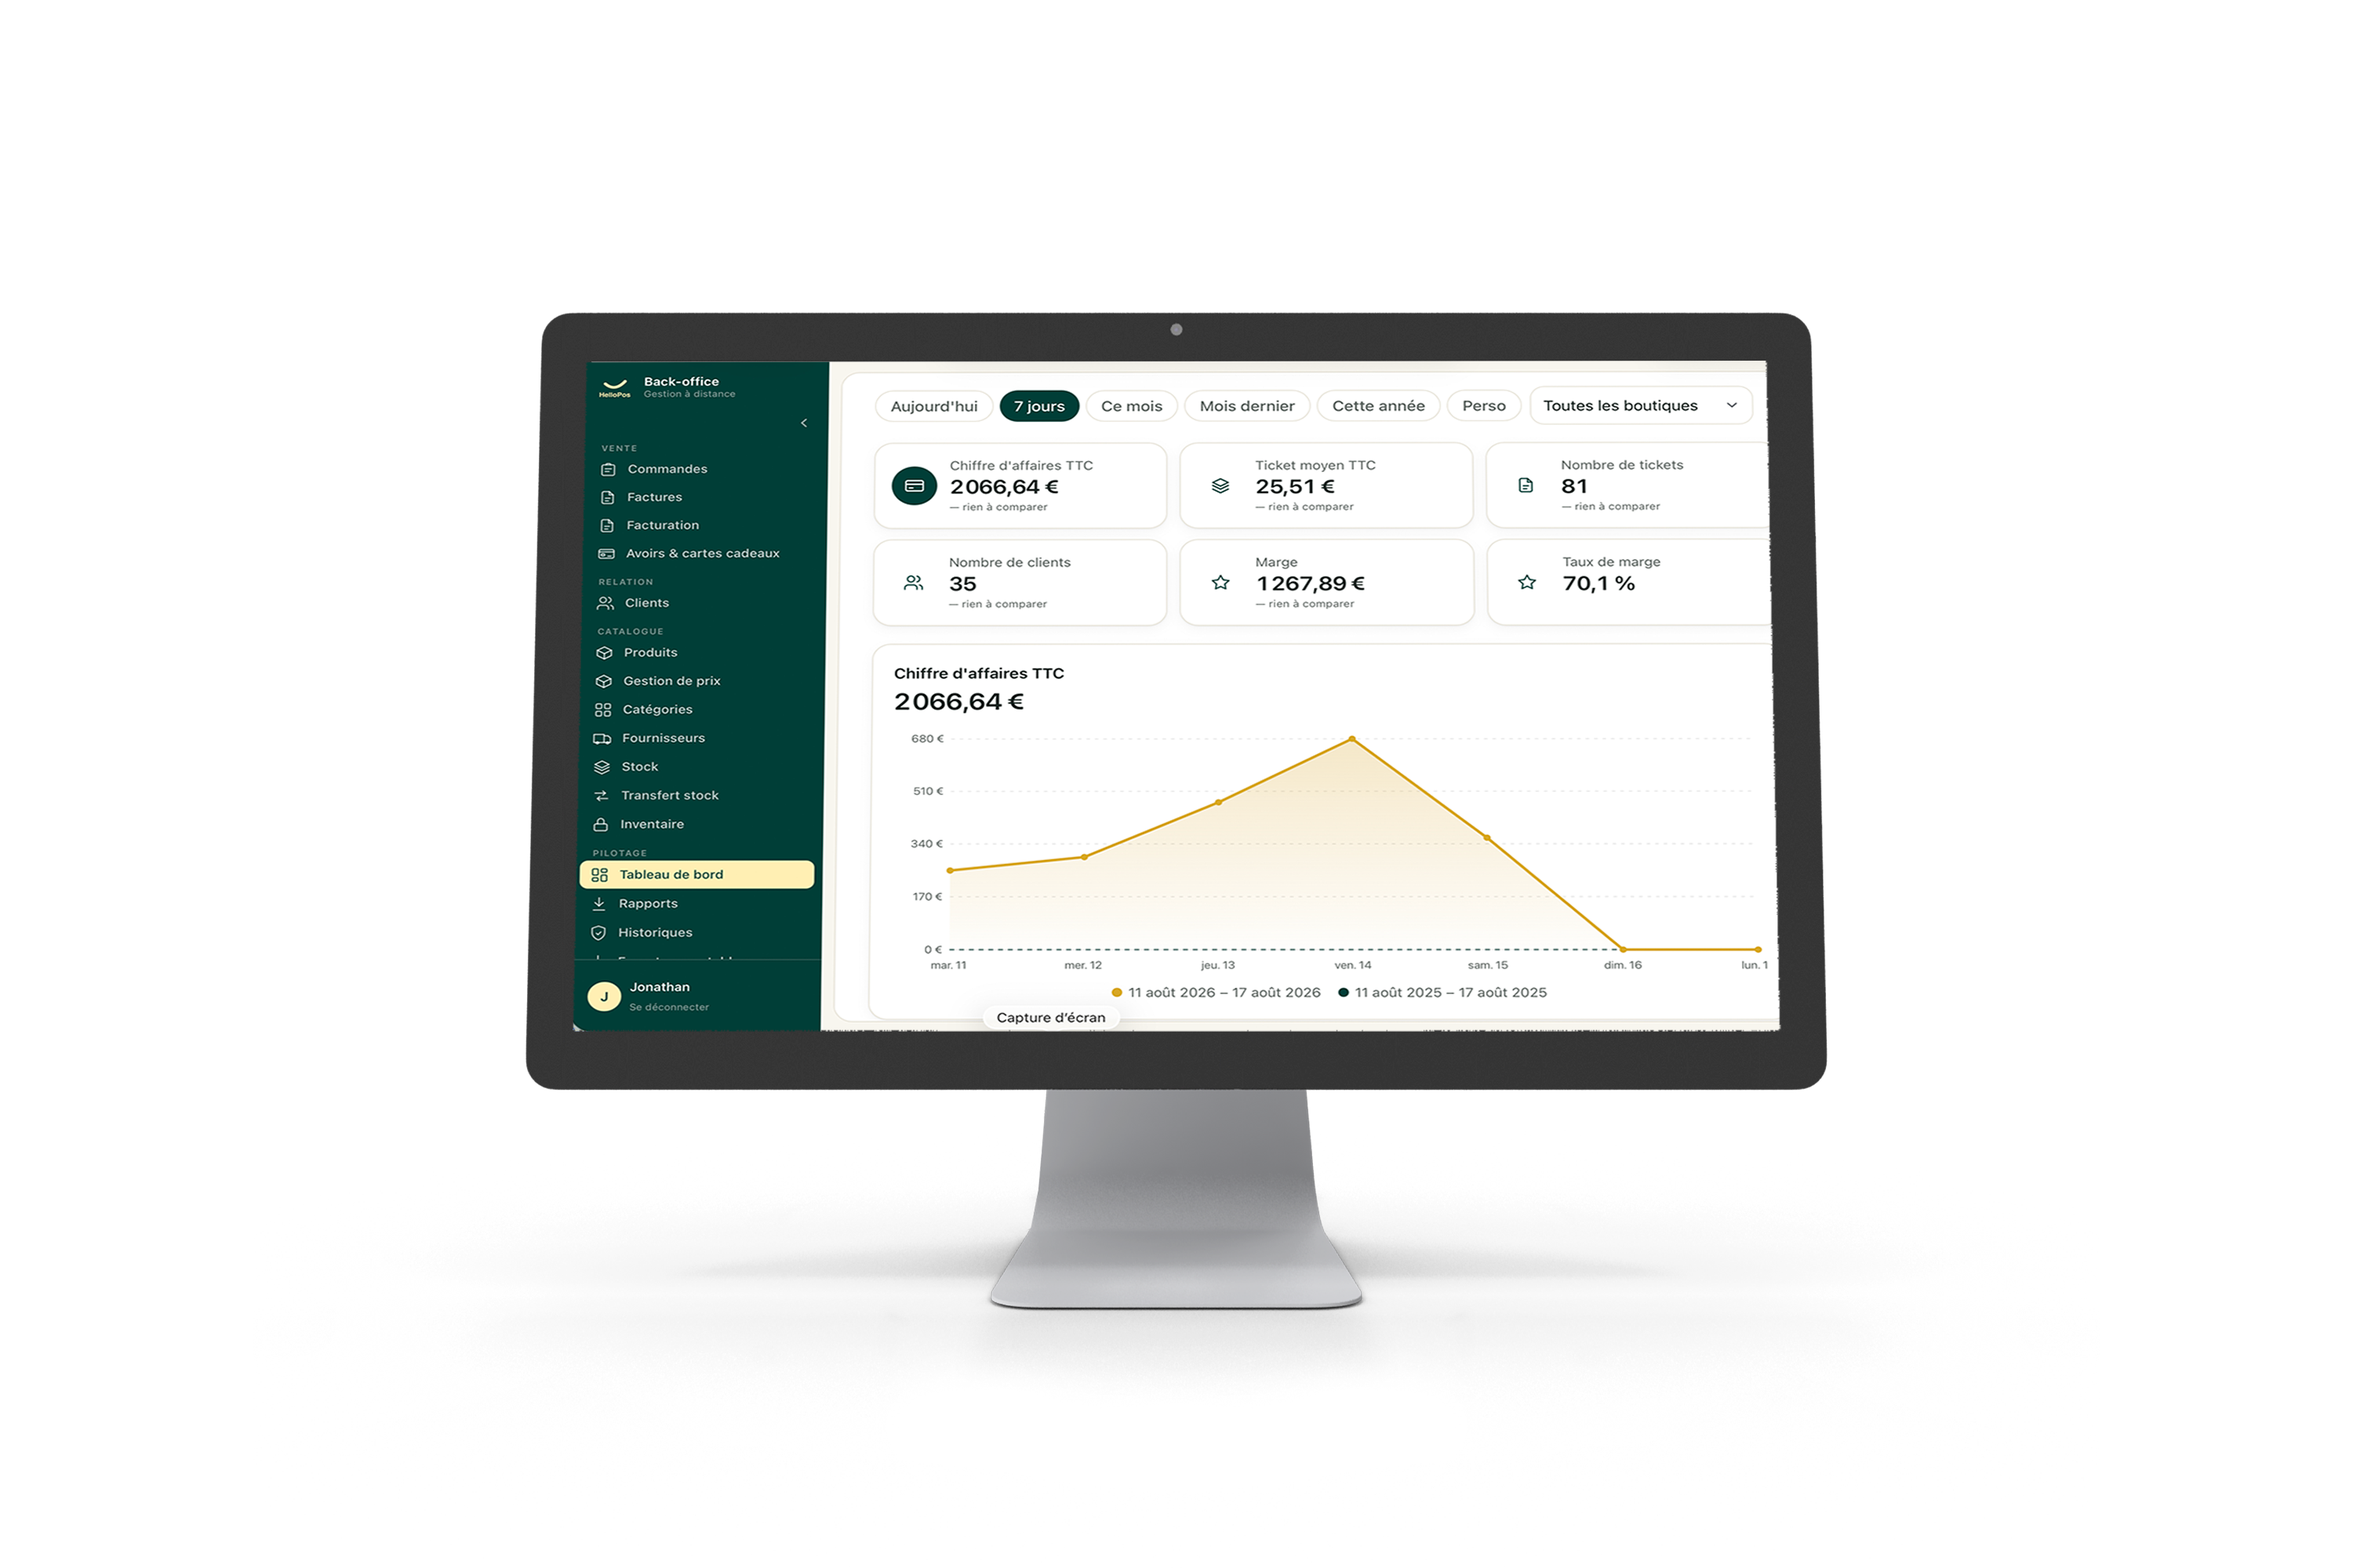
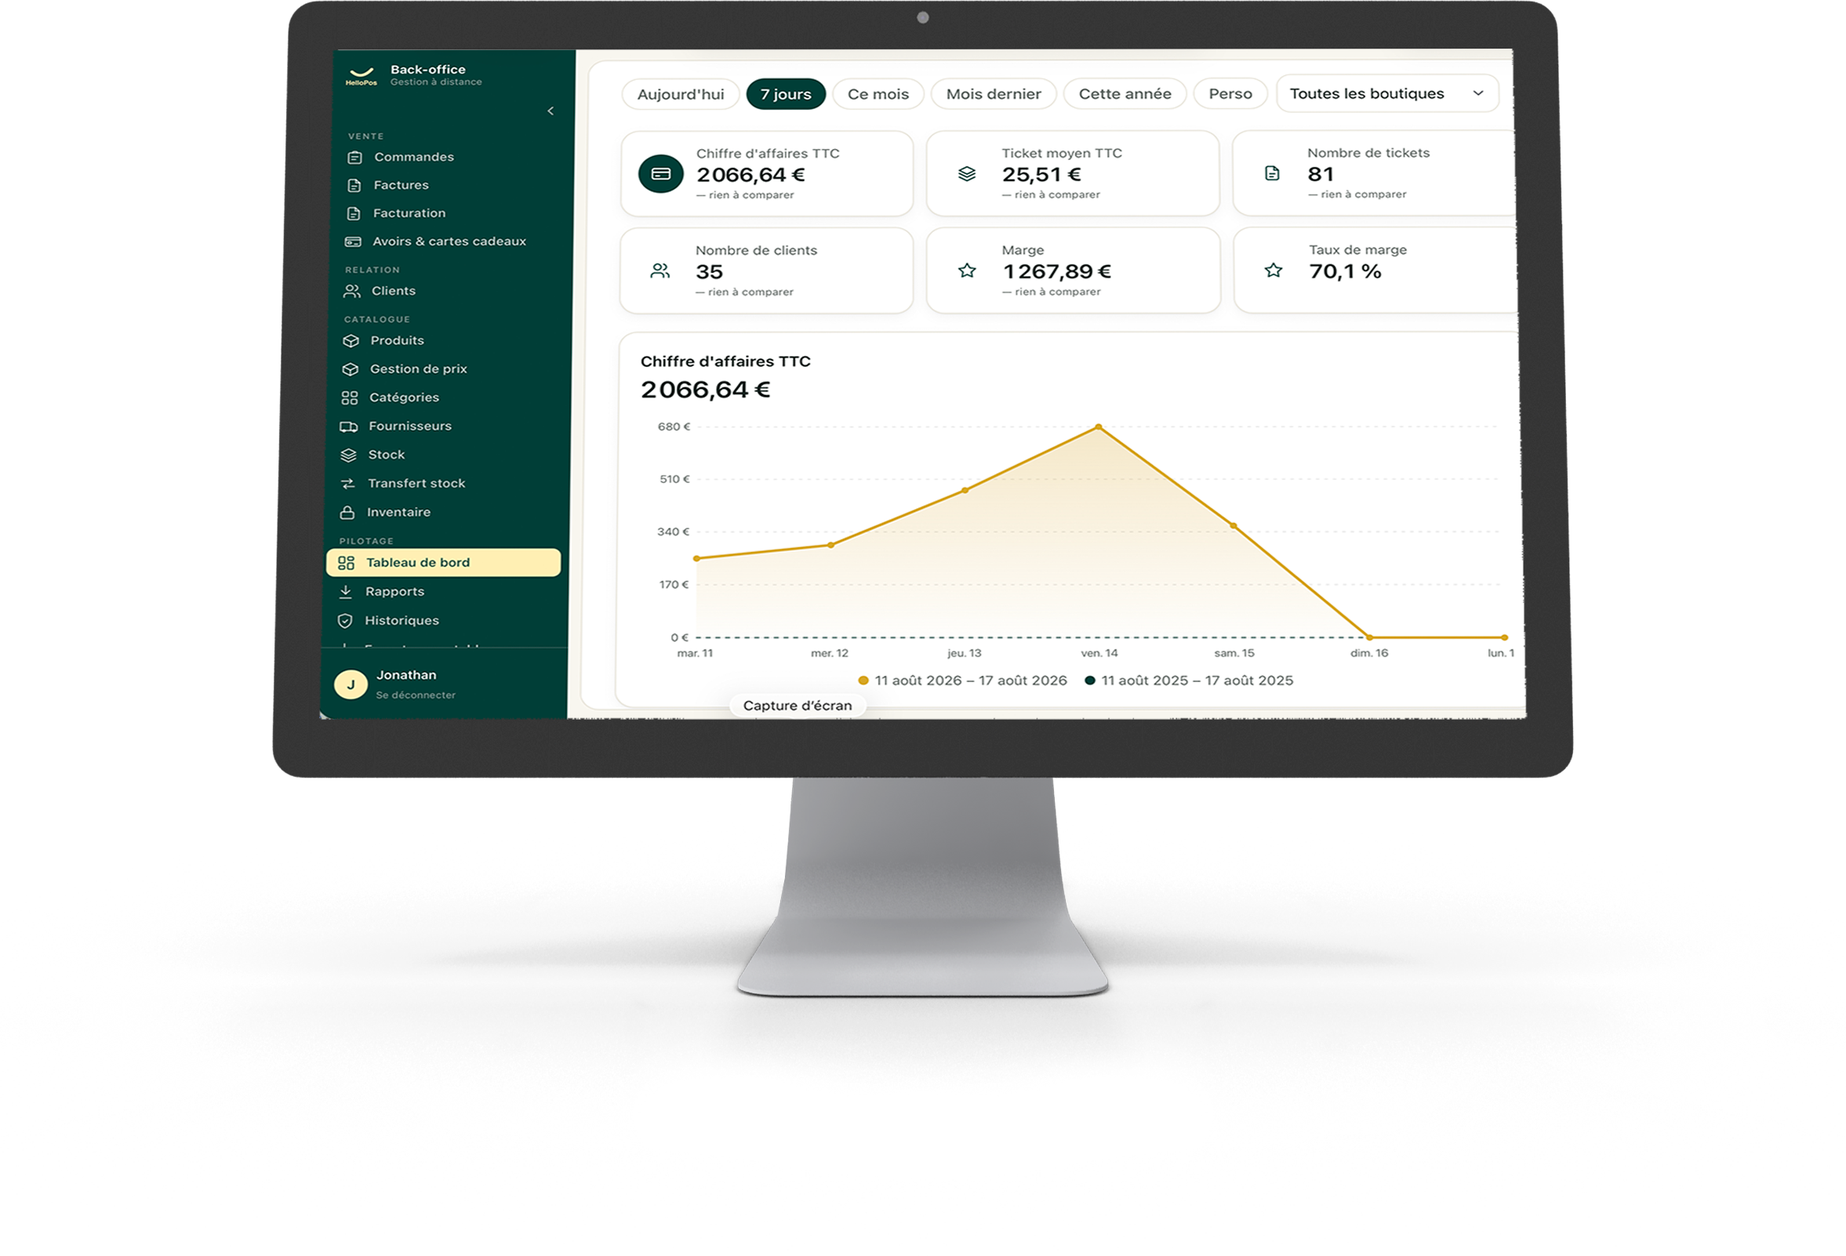
/projet : captures rognees (marges transparentes) + Connexion en lien simple
- Captures : les PNG avaient d'enormes marges transparentes (ex. caisse
  ~1670px de vide a droite) -> appareil minuscule. Rognage au plus pres
  (ombre conservee) via Pillow. Mobile plafonne a 340px.
- Bouton Connexion : le <details> rendait un double cadre. Remplace par un
  simple lien bouton vers l'espace caisse ; CSS du menu retiree. Le
  back-office reste accessible via le footer.

Claude-Session: https://claude.ai/code/session_01MEBShwz6uezCZfaW7fG8Dw

Changed region(s): [[0.124, 0.0, 0.8683, 0.8427], [0.6512, 0.3433, 0.7133, 0.3745], [0.6822, 0.437, 0.7133, 0.4682]]

diff --git a/app/projet/page.tsx b/app/projet/page.tsx
@@ -65,19 +65,6 @@ html:has(.hp){scroll-behavior:smooth}
 .hp .logo-img{height:30px;width:auto;display:block;flex:none}
 .hp .logo-word{font-family:'Bricolage Grotesque','Hanken Grotesk',sans-serif;font-weight:800;letter-spacing:-.03em}
 
-.hp .login{position:relative}
-.hp .login>summary{list-style:none;cursor:pointer;display:inline-flex;align-items:center;justify-content:center;gap:.35rem;font-weight:600;font-size:.9rem;line-height:1;padding:.66rem .95rem;border-radius:12px;border:1px solid var(--border);background:var(--surface);color:var(--ink);white-space:nowrap;-webkit-appearance:none;appearance:none;user-select:none;transition:background .15s ease}
-.hp .login>summary::-webkit-details-marker{display:none}
-.hp .login>summary::marker{content:""}
-.hp .login>summary:hover{background:var(--surface-2)}
-.hp .login[open]>summary{background:var(--surface-2)}
-.hp .login .chev{transition:transform .2s ease}
-.hp .login[open] .chev{transform:rotate(180deg)}
-.hp .login-menu{position:absolute;right:0;top:calc(100% + 8px);background:var(--surface);border:1px solid var(--border);border-radius:12px;box-shadow:var(--shadow);padding:6px;min-width:190px;display:flex;flex-direction:column;z-index:60}
-.hp .login-menu a{padding:.6rem .7rem;border-radius:8px;font-size:.92rem;font-weight:500;color:var(--ink);display:flex;align-items:center;gap:.55rem}
-.hp .login-menu a small{display:block;color:var(--ink-soft);font-weight:400;font-size:.78rem}
-.hp .login-menu a:hover{background:var(--surface-2)}
-
 .hp header.nav{position:sticky;top:0;z-index:50;background:color-mix(in srgb,var(--bg) 82%, transparent);backdrop-filter:saturate(1.4) blur(10px);border-bottom:1px solid var(--border)}
 .hp .nav-in{display:flex;align-items:center;gap:1.5rem;height:66px}
 .hp .brand{display:flex;align-items:center;gap:.6rem;font-family:'Bricolage Grotesque';font-weight:800;font-size:1.2rem;letter-spacing:-.03em}
@@ -89,7 +76,7 @@ html:has(.hp){scroll-behavior:smooth}
 @media(max-width:640px){
   .hp .nav-in{gap:.5rem;height:60px}
   .hp .nav-cta{gap:.4rem}
-  .hp .nav-cta .btn,.hp .nav-cta .login>summary{padding:.5rem .72rem;font-size:.82rem;border-radius:10px}
+  .hp .nav-cta .btn{padding:.5rem .72rem;font-size:.82rem;border-radius:10px}
 }
 @media(max-width:430px){.hp .brand .logo-word{display:none}}
 
@@ -119,7 +106,7 @@ html:has(.hp){scroll-behavior:smooth}
    et on y contient l'image, sans habillage ni double cadre. */
 .hp .shot.filled{border:none;background:transparent;box-shadow:none;padding:0;overflow:visible;aspect-ratio:auto;display:block}
 .hp .shot.filled img{position:static;display:block;width:100%;height:auto;object-fit:contain}
-.hp .shot.phone-ar.filled{max-width:400px;margin:0 auto}
+.hp .shot.phone-ar.filled{max-width:340px;margin:0 auto}
 .hp{overflow-x:clip}
 .hp .shot.tablet-ar{aspect-ratio:4/3}
 .hp .shot.phone-ar{aspect-ratio:9/16;max-width:280px;margin:0 auto;border-radius:26px}
@@ -247,13 +234,7 @@ function renderHtml(setup: string, caisse: string, bo: string): string {
     </nav>
     <div class="nav-cta">
       <a class="btn btn-gold btn-sm" href="${setup}">Créer ma caisse</a>
-      <details class="login">
-        <summary class="login-btn">Connexion <svg class="chev" width="14" height="14" viewBox="0 0 24 24" fill="none" stroke="currentColor" stroke-width="2.4" aria-hidden="true"><path d="M6 9l6 6 6-6"/></svg></summary>
-        <div class="login-menu">
-          <a href="${caisse}">Espace caisse</a>
-          <a href="${bo}">Back-office</a>
-        </div>
-      </details>
+      <a class="btn btn-ghost btn-sm" href="${caisse}">Connexion</a>
     </div>
   </div>
 </header>
